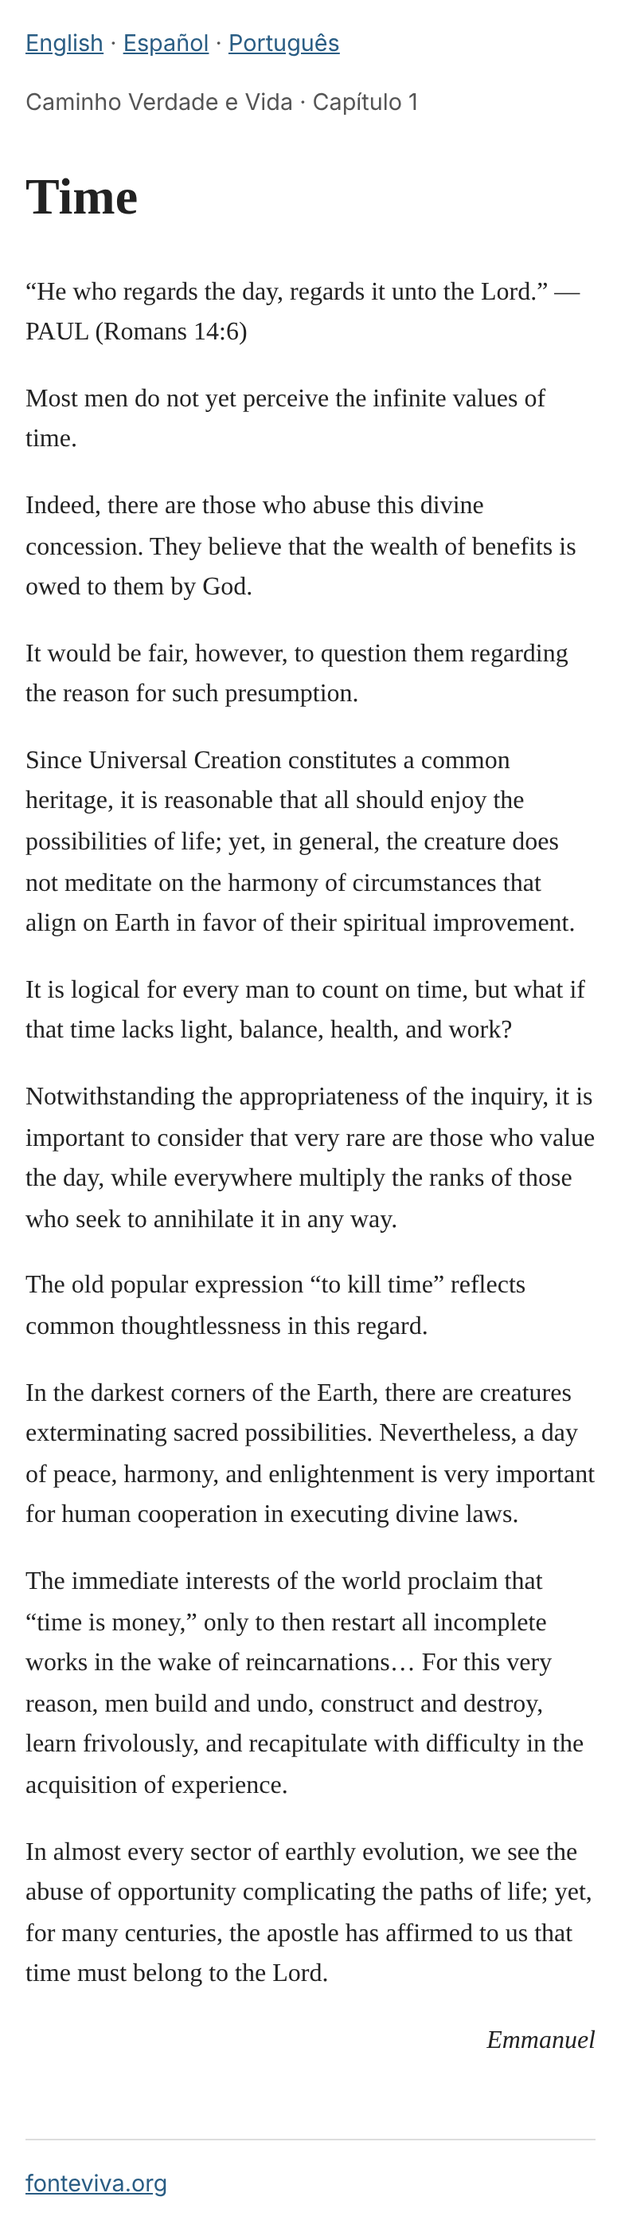
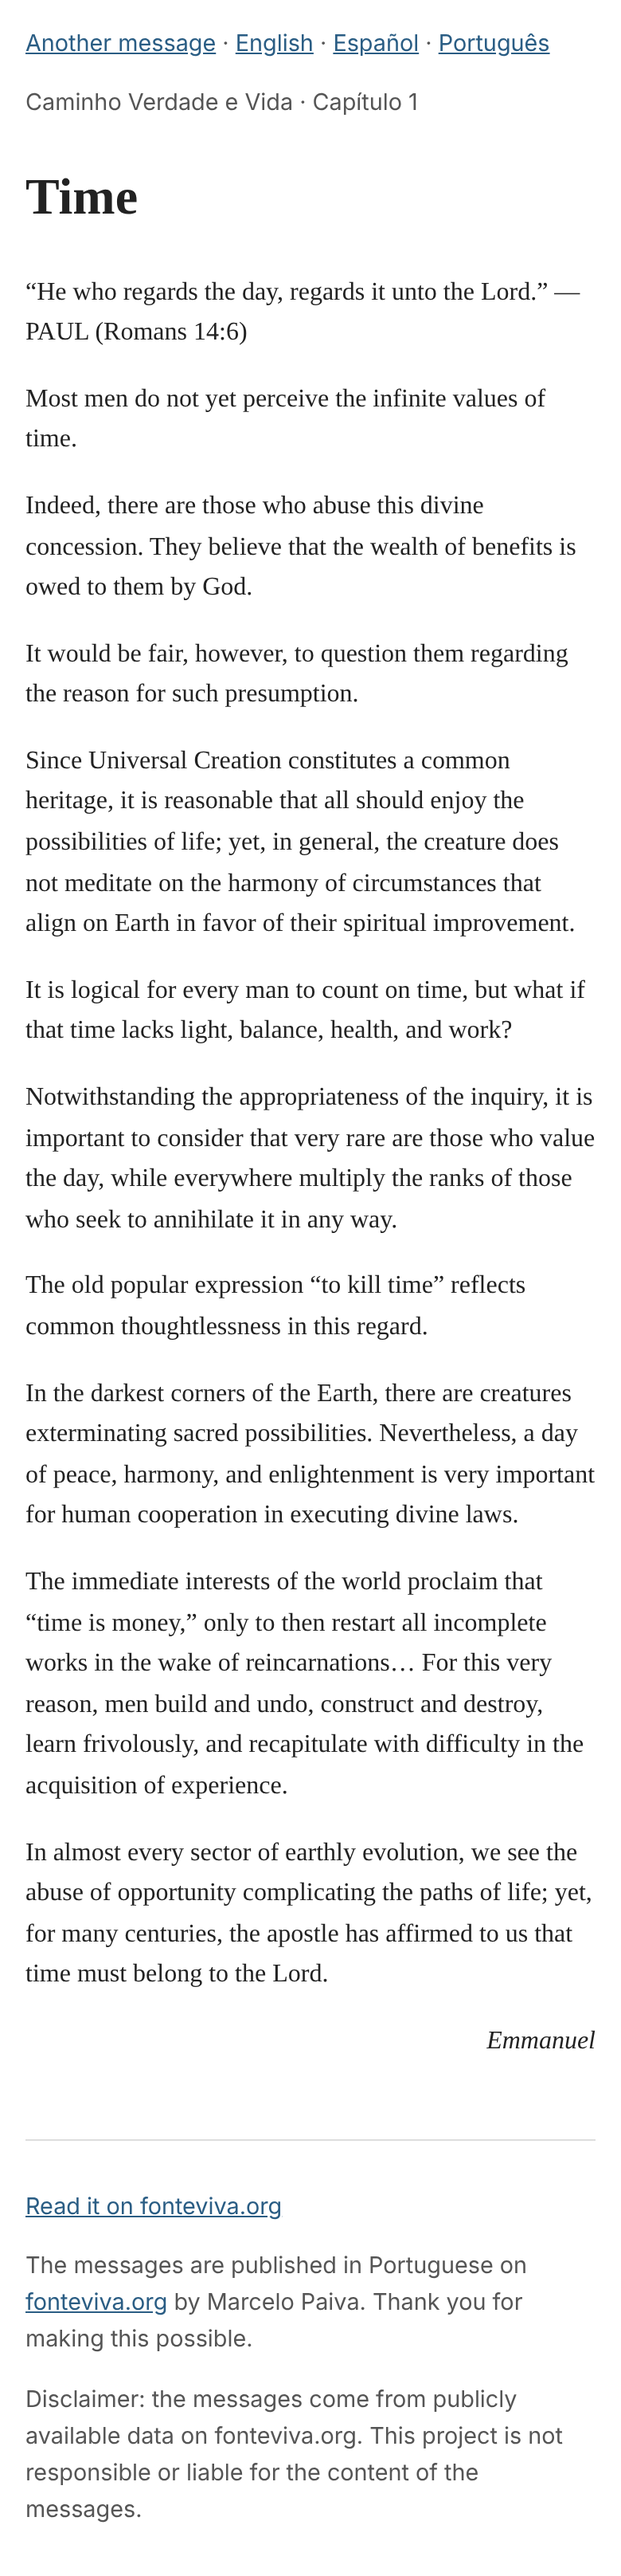
Website: home and "Another message" open a random message
Each language gets <lang>/random/, which opens one of its messages at
random; message pages link to it, and the home page opens a random
English message. The fonteviva.org credit and disclaimer move to every
message page's footer.

Claude-Session: https://claude.ai/code/session_01WwnYkqyU2RRSq5yJRUVuBV

diff --git a/scripts/build-site.ts b/scripts/build-site.ts
@@ -1,5 +1,6 @@
-// Builds the static website from content/<lang>.json: a landing page, a list of messages
-// per language, and one page per message at <lang>/<slug>/ (the link the app shares).
+// Builds the static website from content/<lang>.json: one page per message at <lang>/<slug>/
+// (the link the app shares), a list of messages per language, and <lang>/random/, which opens
+// a random message. The home page opens a random English message.
 //
 // Usage: node scripts/build-site.ts [content folder] [output folder]
 
@@ -10,6 +11,7 @@ import type { Message } from './parse-message.ts';
 type Content = { language: string; books: { slug: string; name: string }[]; messages: Message[] };
 
 const LANGUAGE_NAMES: Record<string, string> = { pt: 'Português', en: 'English', es: 'Español' };
+const ANOTHER_MESSAGE: Record<string, string> = { pt: 'Outra mensagem', en: 'Another message', es: 'Otro mensaje' };
 
 const STYLE = `
   body { font-family: Georgia, serif; max-width: 40rem; margin: 0 auto; padding: 1rem; line-height: 1.6; color: #222; }
@@ -43,18 +45,26 @@ ${body}
 `;
 }
 
-function landingPage(contents: Content[]): string {
+const CREDIT = `<p>The messages are published in Portuguese on <a href="https://fonteviva.org/">fonteviva.org</a> by Marcelo Paiva. Thank you for making this possible.</p>
+<p>Disclaimer: the messages come from publicly available data on fonteviva.org. This project is not responsible or liable for the content of the messages.</p>`;
+
+// Opens a random message of the content: `prefix` is the path from this page to the language folder.
+// Without JavaScript it shows `fallback` instead.
+function randomMessagePage(content: Content, prefix: string, fallback: string): string {
+  const slugs = JSON.stringify(content.messages.map((m) => m.slug));
+  return page(content.language, 'Fonte Viva messages', `
+<script>
+const slugs = ${slugs};
+location.replace('${prefix}' + slugs[Math.floor(Math.random() * slugs.length)] + '/');
+</script>
+<noscript>${fallback}</noscript>`);
+}
+
+// The home page shows a random English message (or of the first language when there is no English).
+function homePage(contents: Content[]): string {
+  const content = contents.find((c) => c.language === 'en') ?? contents[0];
   const languages = contents.map((c) => `<li><a href="${c.language}/">${languageName(c.language)}</a></li>`).join('\n');
-  return page('en', 'Fonte Viva messages', `
-<h1>Fonte Viva messages</h1>
-<p>Uplifting messages for every day, from the books of Emmanuel received by Francisco Cândido Xavier.</p>
-<ul>
-${languages}
-</ul>
-<footer>
-<p>The messages are published in Portuguese on <a href="https://fonteviva.org/">fonteviva.org</a> by Marcelo Paiva. Thank you for making this possible.</p>
-<p>Disclaimer: the messages come from publicly available data on fonteviva.org. This project is not responsible or liable for the content of the messages.</p>
-</footer>`);
+  return randomMessagePage(content, `${content.language}/`, `<h1>Fonte Viva messages</h1>\n<ul>\n${languages}\n</ul>\n<footer>${CREDIT}</footer>`);
 }
 
 function languagePage(content: Content): string {
@@ -80,13 +90,16 @@ function messagePage(content: Content, message: Message, otherLanguages: string[
   const note = message.note ? `<p class="note">${escapeHtml(message.note)}</p>` : '';
   const languages = otherLanguages.map((l) => `<a href="../../${l}/${message.slug}/">${languageName(l)}</a>`).join(' · ');
   return page(content.language, message.title, `
-<nav><a href="../">${languageName(content.language)}</a>${languages ? ` · ${languages}` : ''}</nav>
+<nav><a href="../random/">${ANOTHER_MESSAGE[content.language] ?? ANOTHER_MESSAGE.en}</a> · <a href="../">${languageName(content.language)}</a>${languages ? ` · ${languages}` : ''}</nav>
 <p class="meta">${meta}</p>
 <h1>${escapeHtml(message.title)}</h1>
 ${paragraphs}
 ${signature}
 ${note}
-<footer><a href="${escapeHtml(message.url)}">fonteviva.org</a></footer>`);
+<footer>
+<p><a href="${escapeHtml(message.url)}">Read it on fonteviva.org</a></p>
+${CREDIT}
+</footer>`);
 }
 
 function readContents(folder: string): Content[] {
@@ -103,9 +116,10 @@ function write(file: string, html: string) {
 function buildSite(contentFolder: string, outFolder: string) {
   const contents = readContents(contentFolder);
   rmSync(outFolder, { recursive: true, force: true });
-  write(join(outFolder, 'index.html'), landingPage(contents));
+  write(join(outFolder, 'index.html'), homePage(contents));
   for (const content of contents) {
     write(join(outFolder, content.language, 'index.html'), languagePage(content));
+    write(join(outFolder, content.language, 'random', 'index.html'), randomMessagePage(content, '../', `<a href="../">${languageName(content.language)}</a>`));
     for (const message of content.messages) {
       const otherLanguages = contents
         .filter((c) => c !== content && c.messages.some((m) => m.id === message.id))

diff --git a/specs/ops/steps/website.steps.ts b/specs/ops/steps/website.steps.ts
@@ -66,3 +66,15 @@ Then(/^the page "([^"]*)" does not link to (.+)$/, function (this: World, page: 
 Then('the page {string} has no signature', function (this: World, page: string) {
   assert.ok(!readPage(this, page).includes('class="signature"'));
 });
+
+// The page picks one of these slugs at random in the browser; here we check it has exactly them.
+Then(/^the page "([^"]*)" opens a random message of "([^"]*)" from (.+)$/, function (this: World, page: string, prefix: string, slugs: string) {
+  const html = readPage(this, page);
+  assert.ok(html.includes(`const slugs = ${JSON.stringify(quoted(slugs))};`), html);
+  assert.ok(html.includes(`location.replace('${prefix}' + `), html);
+});
+
+Then(/^without JavaScript the page "([^"]*)" links to (.+)$/, function (this: World, page: string, links: string) {
+  const noscript = readPage(this, page).split('<noscript>')[1];
+  for (const link of quoted(links)) assert.ok(noscript.includes(`href="${link}"`), link);
+});

diff --git a/docs/development.md b/docs/development.md
@@ -72,7 +72,7 @@ Messages already in the output file are skipped, so if a run stops halfway (for 
 
 ## The website
 
-`scripts/build-site.ts` turns `content/<lang>.json` into a static site: a landing page, a list of messages per language, and one page per message at `<lang>/<slug>/` (the slug is fonteviva.org's, the same in every language). The **Website** workflow builds it and publishes it with GitHub Pages on every push to `main`; Pages must be set once to Settings → Pages → Source: **GitHub Actions**.
+`scripts/build-site.ts` turns `content/<lang>.json` into a static site: one page per message at `<lang>/<slug>/` (the slug is fonteviva.org's, the same in every language), a list of messages per language, and `<lang>/random/`, which opens a random message (the "Another message" link). The home page opens a random English message. The **Website** workflow builds it and publishes it with GitHub Pages on every push to `main`; Pages must be set once to Settings → Pages → Source: **GitHub Actions**.
 
 To look at it locally: `./run.sh site`, then `npx serve site` and open the printed address (links end in `/`, so opening the files directly doesn't follow them).
 
